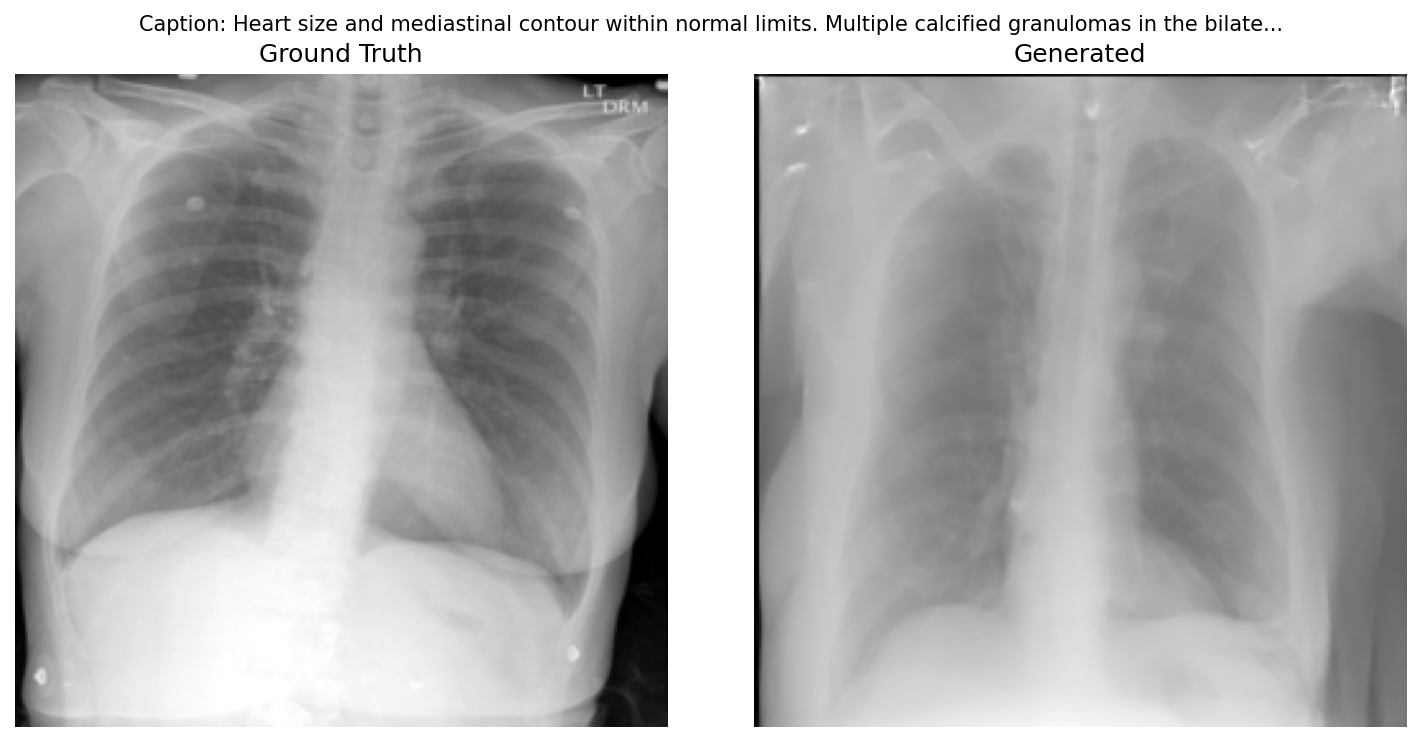
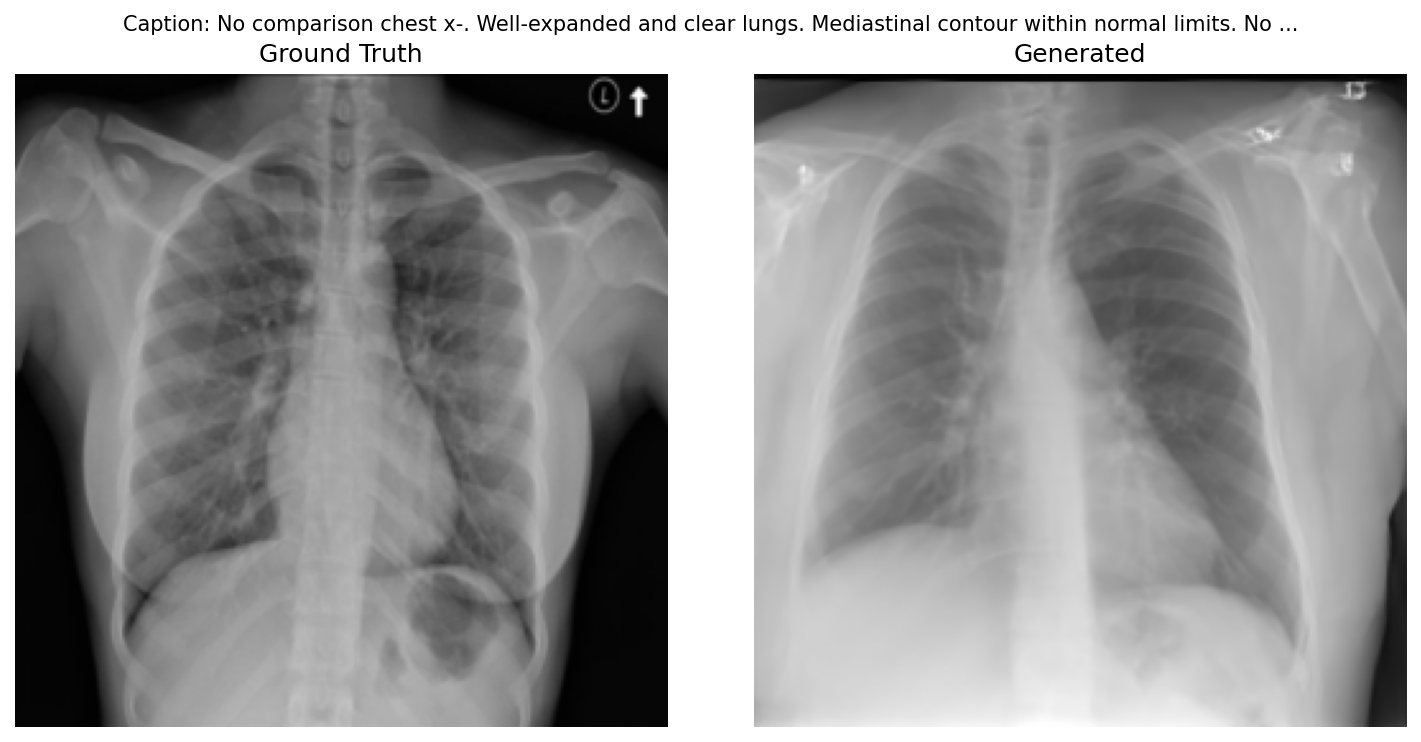
README: results, conditioning ablation, training curves

diff --git a/README.md b/README.md
@@ -58,11 +58,16 @@ learned distribution.
 
 ### Ground truth vs. generated
 
+Selected from the epoch-120 validation batch. Each pair shares a report; the model
+never sees the ground-truth image.
+
 ![sample 1](assets/samples/sample-1.png)
 
 ![sample 2](assets/samples/sample-2.png)
 
-Each pair shares a report; the model never sees the ground-truth image.
+Quality is uneven across samples — the failure mode is a globally plausible but
+anatomically incoherent film, and it is more frequent for rare pathological reports
+than for normal ones. See *Known limitations*.
 
 ### Training
 
@@ -107,7 +112,8 @@ are reported for transparency only.
   not the implementation; the standard fix is fine-tuning a pretrained latent
   diffusion model rather than training from scratch.
 - Pathological captions are sparse in IU-XRay, so the conditional distribution's tail
-  is not learned.
+  is not learned. Sample quality tracks caption frequency: normal findings render as
+  well-formed frontal films, rare pathological descriptions often degrade.
 - No radiological validation of any kind. Generated images are for research only and
   must not be used diagnostically.
 
